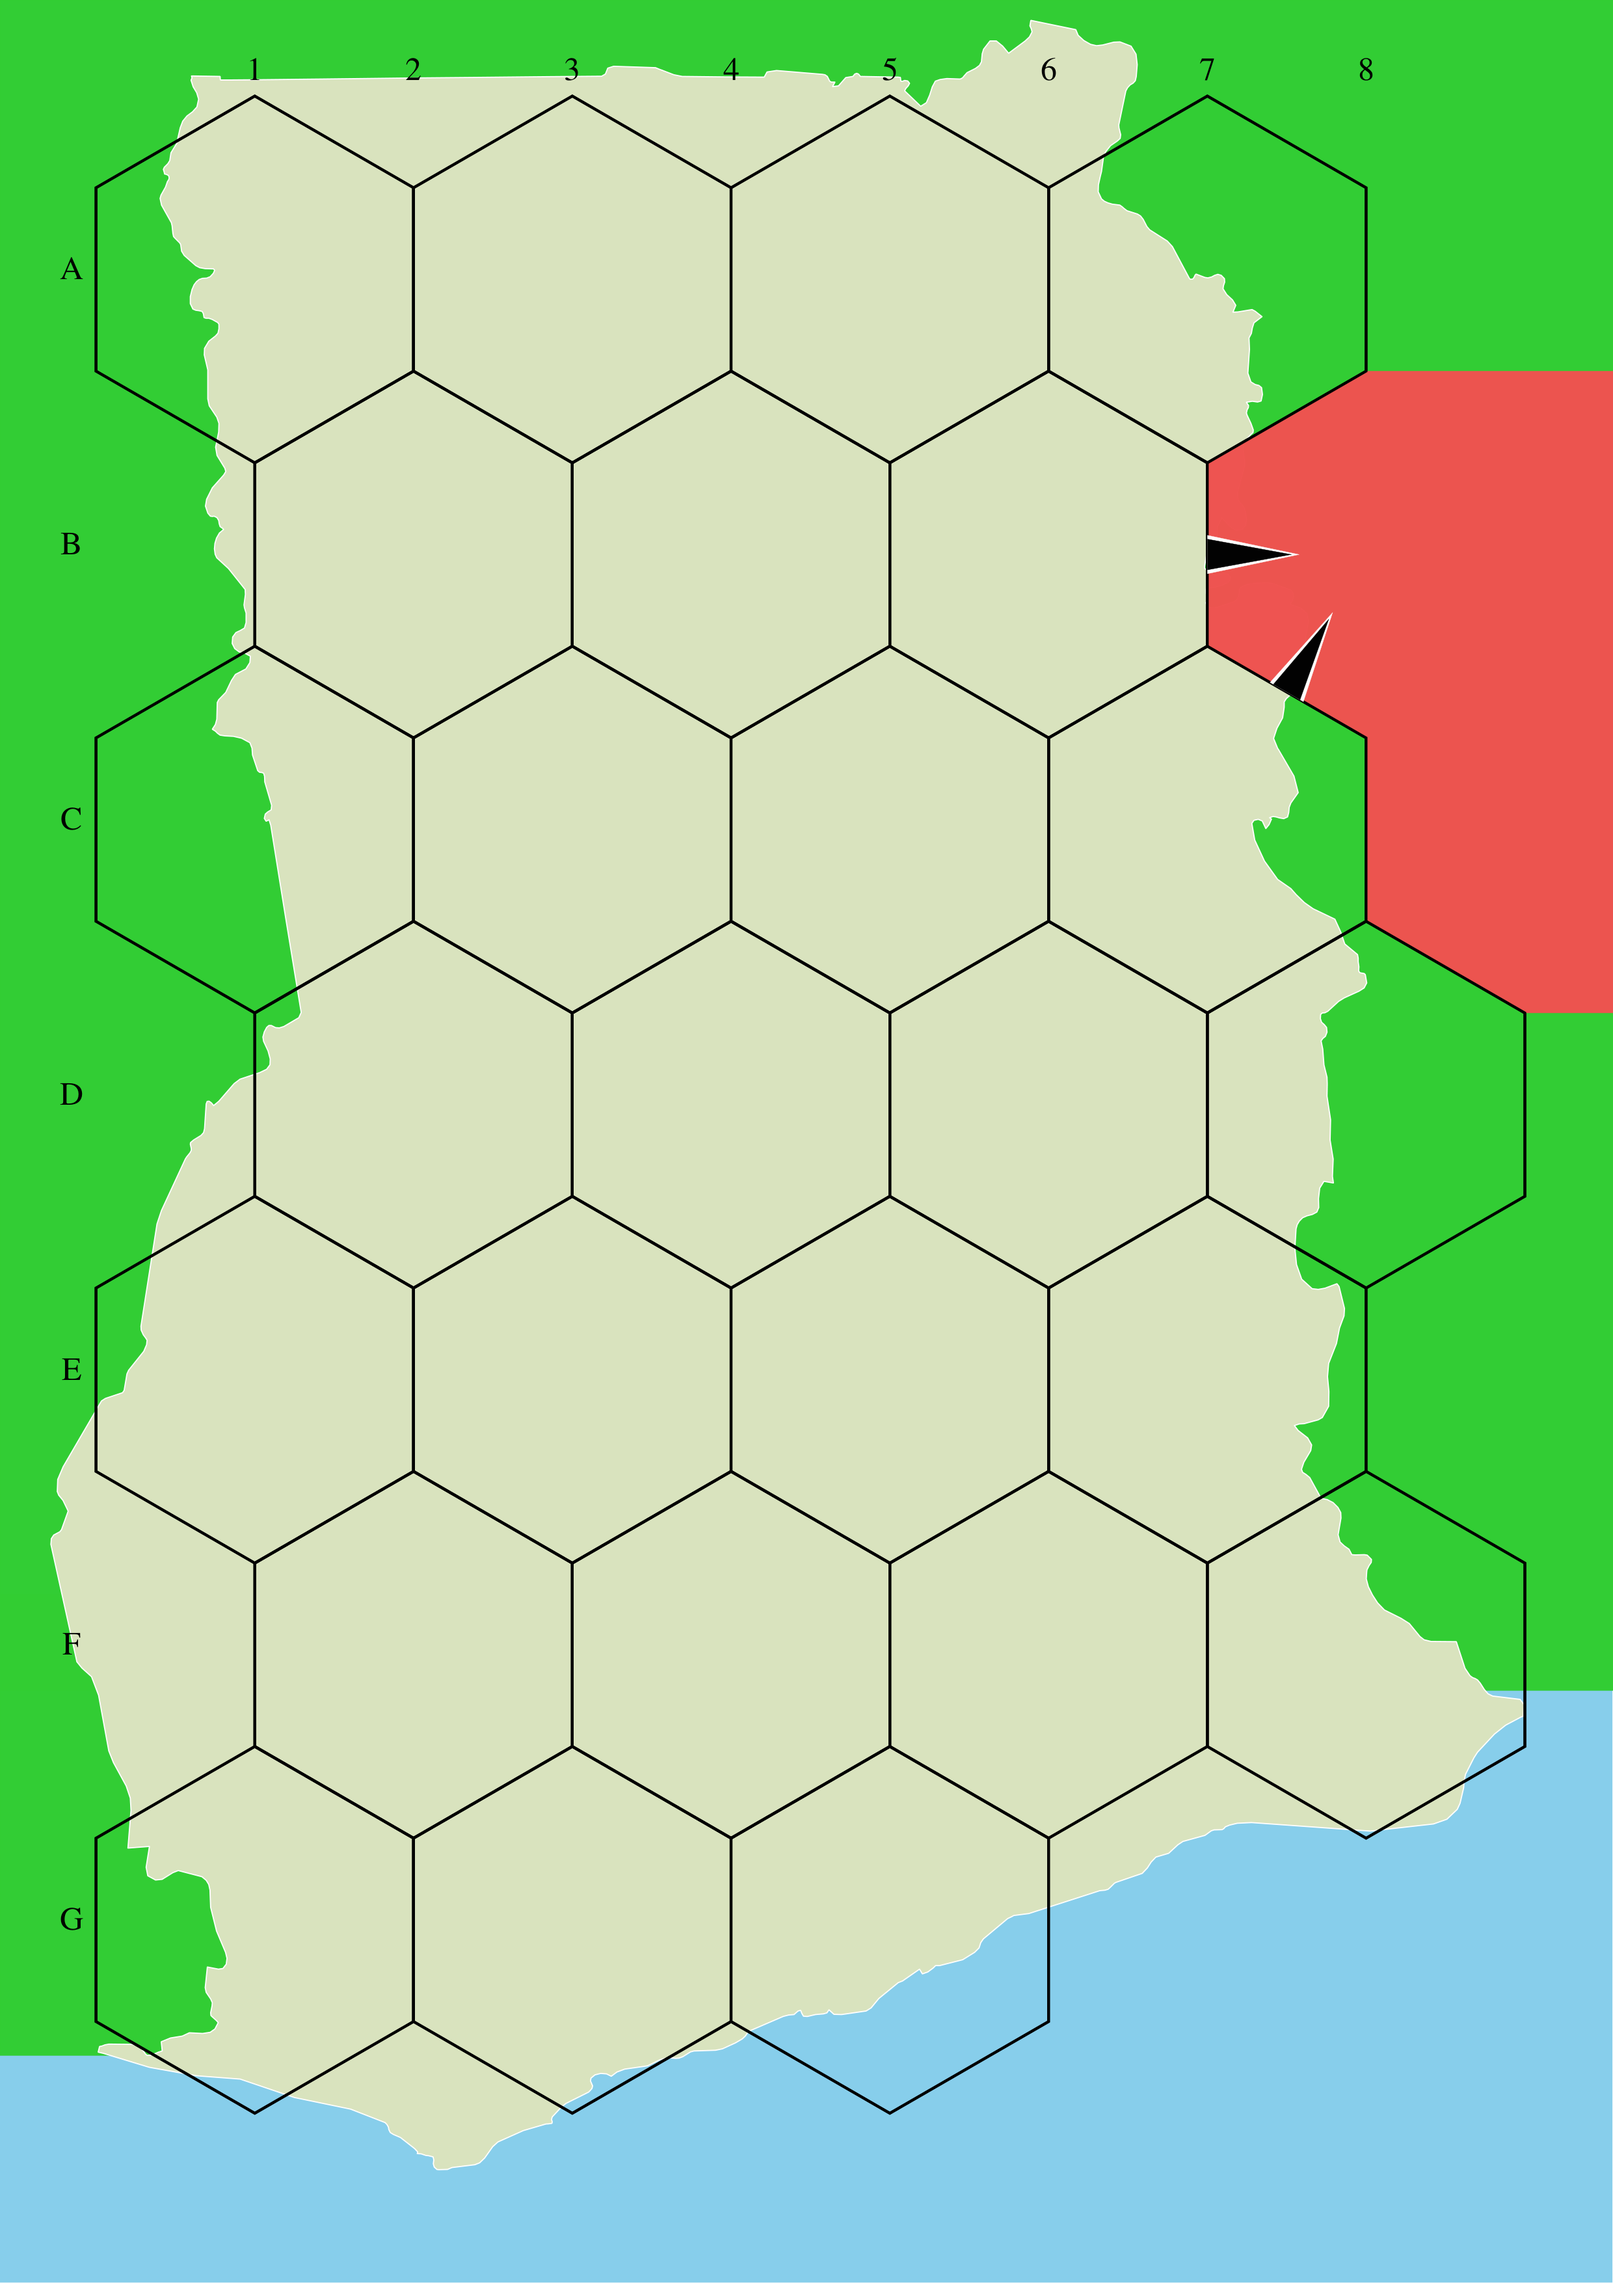
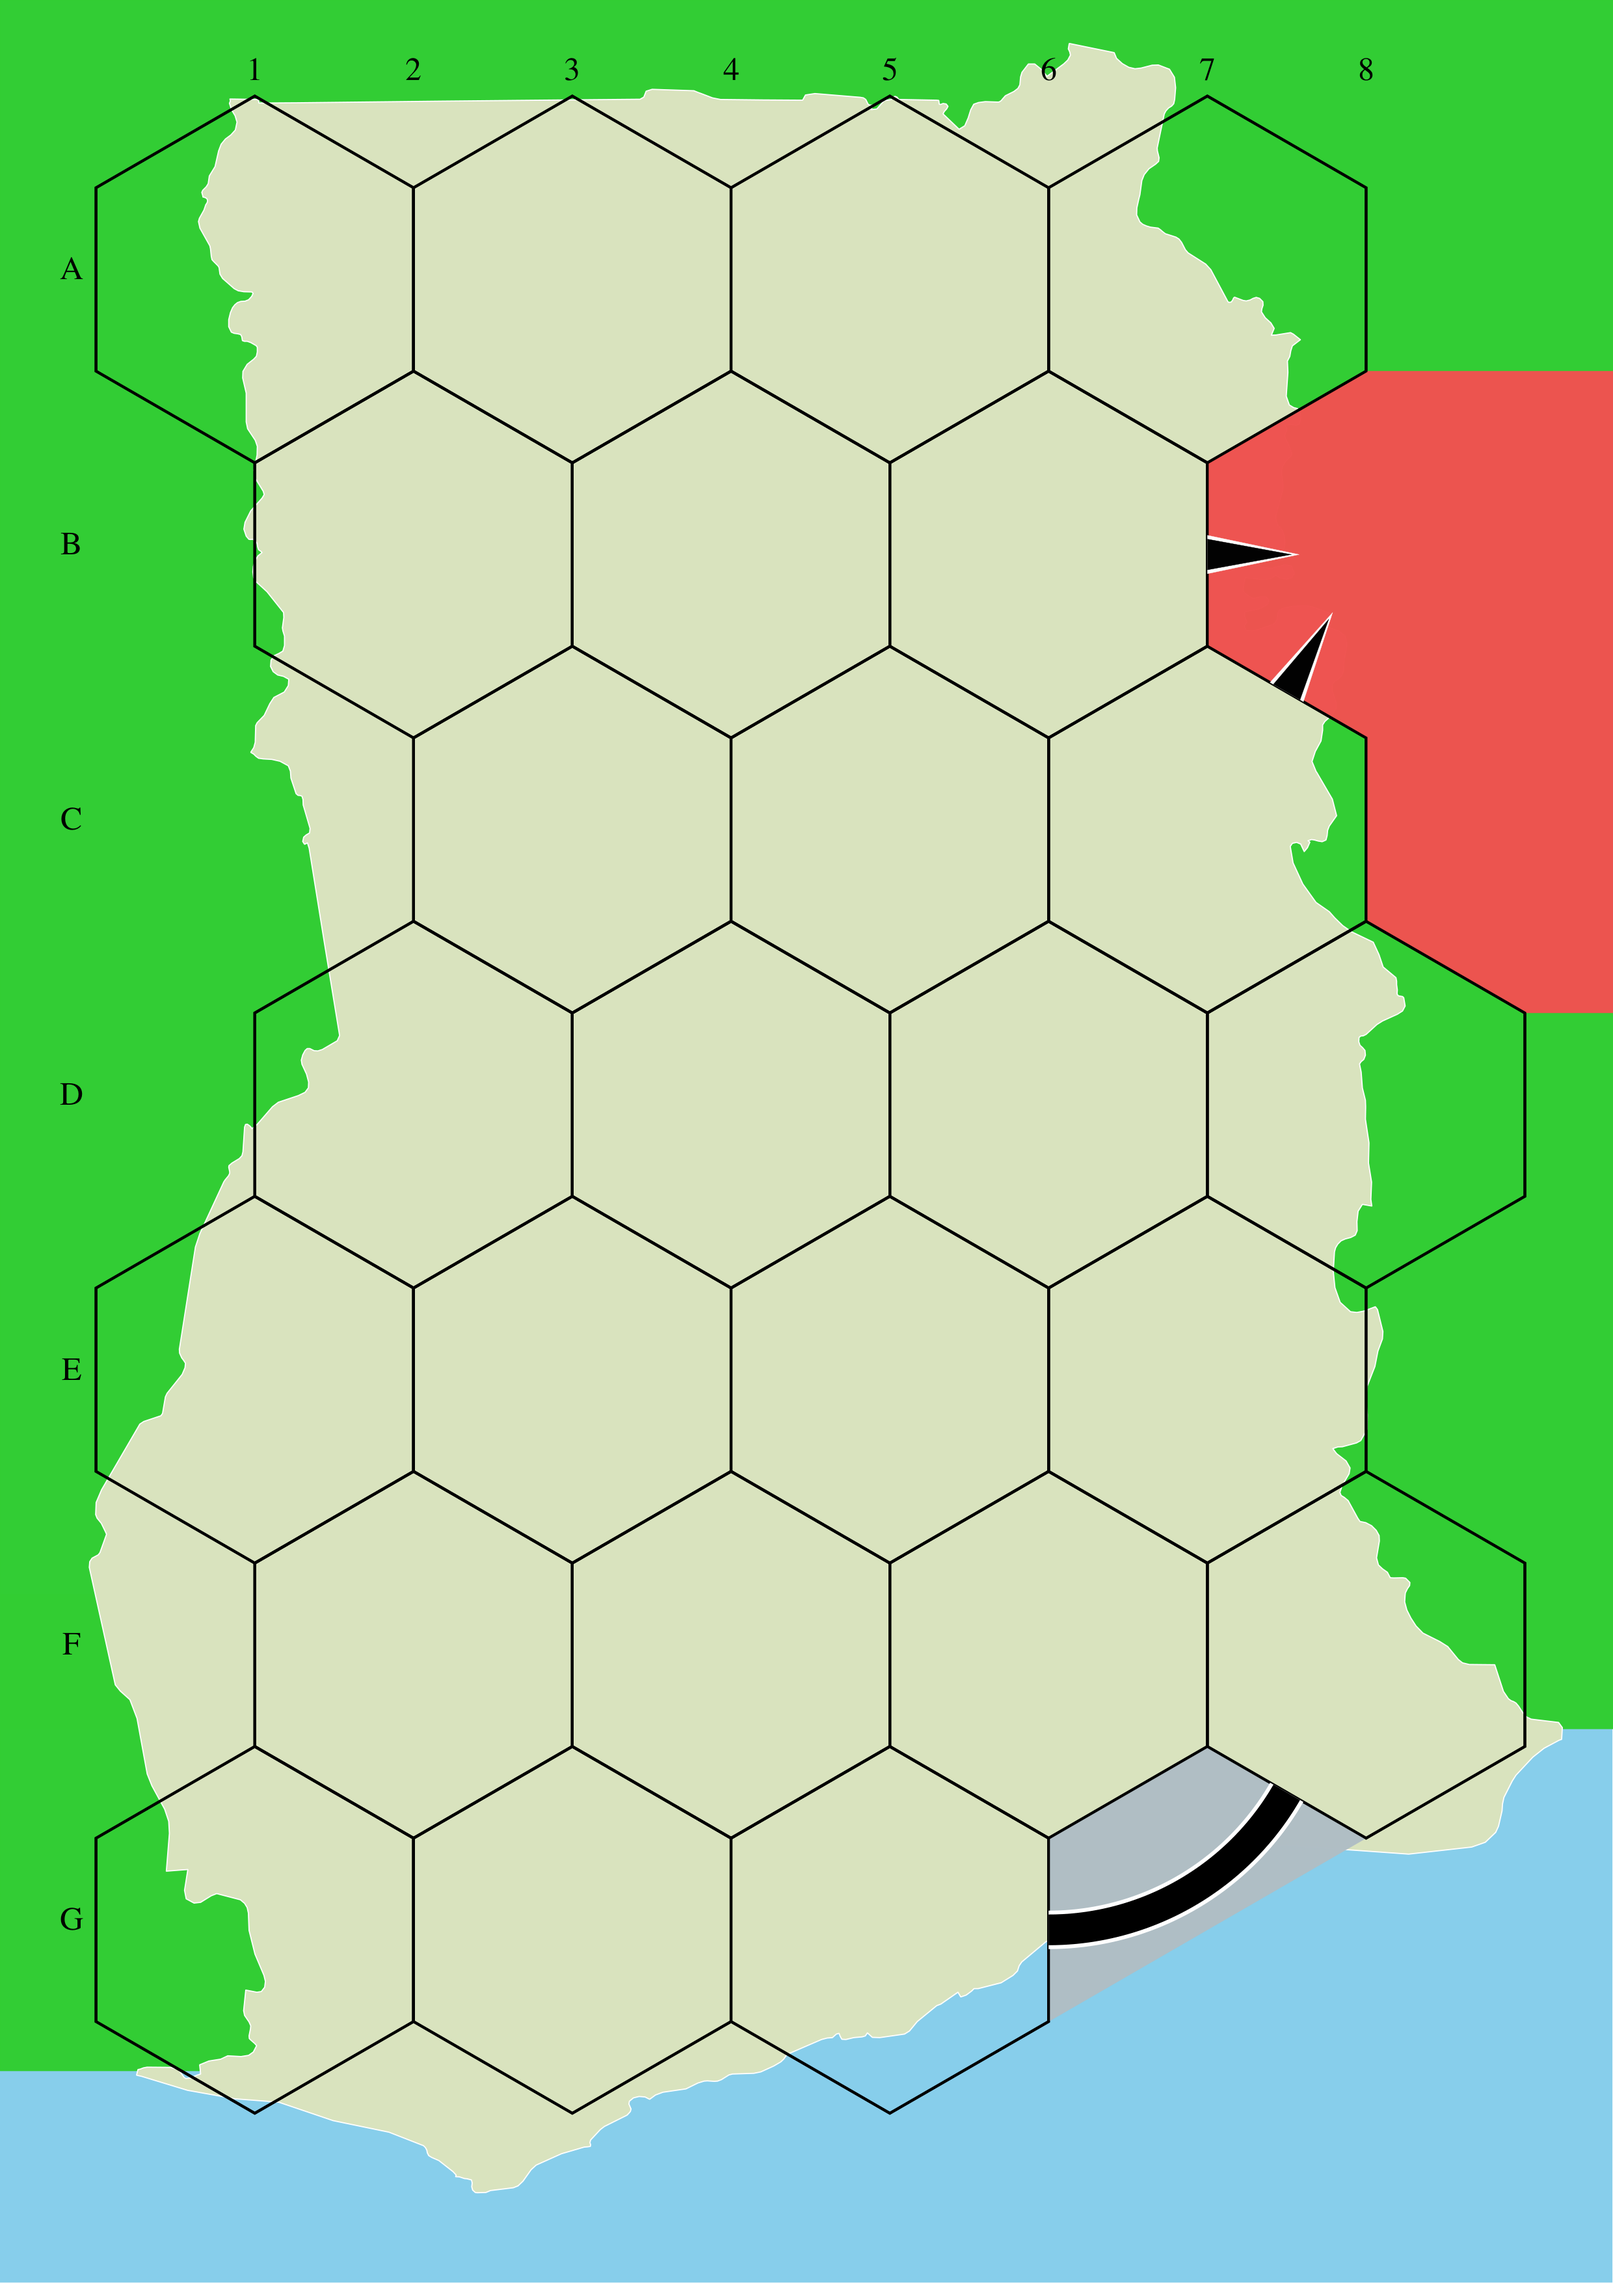
Swop-out swamp symbol. Expand map example (half-hexagon).

diff --git a/protograf/games/xx18_game.py b/protograf/games/xx18_game.py
@@ -27,7 +27,7 @@ The 18xx map "blueprint" feature covers depiction of:
   (two sizes), hills, and rivers
 * symbols for special features such as: coal, desert, factory, fish,
   flag, forest, hills, lock, mine, noentry, oil, pennant, port,
-  swamp, train, tree, tunnel
+  swamp, swamps, train, tree, tunnel
 * a river; as "wavy line"; running through a hex
 * a custom shape in a hex
 * a single piece of text
@@ -224,6 +224,7 @@ XX18_SYMBOL_SET = [
     "port",
     "river",
     "swamp",
+    "swamps",
     "train",
     "tree",
     "tunnel",
@@ -1392,8 +1393,9 @@ class XX18GameObject(CoreGameObject):
                         cxy=geo.centre,
                         height=self.hex_height,
                         fill=None,
-                        stroke=self.xxs["XX18_TEXT_STROKE"],
+                        stroke="white",
                         stroke_width=0.1,
+                        stroke_transparency=100,
                         orientation=self.orientation,
                         paths_stroke=self.xxs["XX18_TRACK_OUTER_FILL"],
                         paths_stroke_width=self.xxs["XX18_TRACK_OUTER_WIDTH"]
@@ -1431,8 +1433,9 @@ class XX18GameObject(CoreGameObject):
                         cxy=geo.centre,
                         height=self.hex_height,
                         fill=None,
-                        stroke="black",
+                        stroke="white",
                         stroke_width=0.1,
+                        stroke_transparency=100,
                         orientation=self.orientation,
                         paths_stroke="black",
                         paths_stroke_width=self.xxs["XX18_TRACK_INNER_WIDTH"]
@@ -1603,17 +1606,6 @@ class XX18GameObject(CoreGameObject):
                 wave_height=0.15,
             )
             start_point = current_point
-            # GridLine(
-            #     self.board_layout,
-            #     start=_loc,
-            #     point=point,
-            #     edges=edges,
-            #     stroke=river_stroke,
-            #     stroke_width=_river_width,
-            #     stroke_ends="rounded",
-            #     wave_style="wave",
-            #     wave_height=0.15,
-            # )
 
     def town(
         self,
@@ -2615,6 +2607,8 @@ class XX18GameObject(CoreGameObject):
                 _file = files("protograf").joinpath(f"{XX18_RESOURCES}/river.svg")
             case "swamp":
                 _file = files("protograf").joinpath(f"{XX18_RESOURCES}/swamp.svg")
+            case "swamps":
+                _file = files("protograf").joinpath(f"{XX18_RESOURCES}/swamps.svg")
             case "factory":
                 _file = files("protograf").joinpath(f"{XX18_RESOURCES}/factory.svg")
             case "fish":

diff --git a/examples/objects/xx18_map.py b/examples/objects/xx18_map.py
@@ -18,22 +18,22 @@ Create(
 
 Rectangle(
     x=-1.25, y=-1.25,
-    height=22, width=21,
+    height=22.5, width=21,
     fill_stroke="limegreen")
 Rectangle(
     x=-1.25, y=19.5,
-    height=6, width=4,
+    height=6.2, width=4,
     fill_stroke="limegreen")
 
 Image(
     "images/gh.svg",
     height=30, width=20,
-    y=-2, x=-1)
+    y=-1.7, x=-0.5)
 
 map_pattern ="""
 O O O O
  O O O .
-O O O O
+. O O O
  O O O O
 O O O O
  O O O O
@@ -60,6 +60,15 @@ Polyshape(
       (21, xgh.A7.se.y)
     ]
 )
+Polyshape(
+    fill_stroke="xgray",
+    points=[
+      xgh.G7.n,
+      xgh.G7.nw,
+      xgh.G7.sw,
+      xgh.G7.ne
+    ]
+)
 
 xgf = XX18Game(
     rows=7,
@@ -68,7 +77,8 @@ xgf = XX18Game(
     fill=None,
     pattern=map_pattern,
     features=[
-        ('B8', 'spike', 'w sw', "medium",),
+        ('B8', 'spike', 'w sw', 'medium',),
+        ('G7', 'track', 'w,ne', ),
     ]
     )
 XX18State(board=xgf)

diff --git a/protograf/protos/proto_commands.py b/protograf/protos/proto_commands.py
@@ -319,6 +319,14 @@ def Create(**kwargs):
     if kwargs.get("paper_width") or kwargs.get("paper_height"):
         _page_width = tools.as_float(kwargs.get("paper_width", 0), "paper_width")
         _page_height = tools.as_float(kwargs.get("paper_height", 0), "paper_height")
+        if _page_height <= 0 and _page_width <= 0:
+            feedback(
+                "Cannot set both paper_width and paper_height less than or equal to zero.",
+                True,
+                True,
+            )
+        _page_width = _page_width if _page_width > 0 else _page_height
+        _page_height = _page_height if _page_height > 0 else _page_width
         _page_width_pt = (
             _page_width * globals.units if _page_width > 0 else globals.paper[0]
         )

diff --git a/docs/source/objects/xx18.rst b/docs/source/objects/xx18.rst
@@ -97,7 +97,7 @@ The ``XX18Game()`` command can depict:
   (two sizes), hills, and rivers
 * symbols for special features such as: coal, desert, factory, fish,
   flag, forest, hills, lock, mine, noentry, oil, pennant, port,
-  swamp, train, tree, tunnel
+  swamp, swamps, train, tree, tunnel
 * a river; as "wavy line"; running through a hexagon
 * a custom shape in a hexagon
 * a single piece of text
@@ -1261,22 +1261,22 @@ exceptions.  For these cases, you need to fall back to using
 
         Rectangle(
             x=-1.25, y=-1.25,
-            height=22, width=21,
+            height=22.5, width=21,
             fill_stroke="limegreen")
         Rectangle(
             x=-1.25, y=19.5,
-            height=6, width=4,
+            height=6.2, width=4,
             fill_stroke="limegreen")
 
         Image(
             "images/gh.svg",
             height=30, width=20,
-            y=-2, x=-1)
+            y=-1.7, x=-0.5)
 
         map_pattern ="""
         O O O O
          O O O .
-        O O O O
+        . O O O
          O O O O
         O O O O
          O O O O
@@ -1287,8 +1287,7 @@ exceptions.  For these cases, you need to fall back to using
             rows=7,
             cols=4,
             fill=None,
-            pattern=map_pattern
-        )
+            pattern=map_pattern)
         XX18State(board=xgh)
 
         Polyshape(
@@ -1304,6 +1303,15 @@ exceptions.  For these cases, you need to fall back to using
               (21, xgh.A7.se.y)
             ]
         )
+        Polyshape(
+            fill_stroke="xgray",
+            points=[
+              xgh.G7.n,
+              xgh.G7.nw,
+              xgh.G7.sw,
+              xgh.G7.ne
+            ]
+        )
 
         xgf = XX18Game(
             rows=7,
@@ -1312,31 +1320,34 @@ exceptions.  For these cases, you need to fall back to using
             fill=None,
             pattern=map_pattern,
             features=[
-                ('B8', 'spike', 'w sw', "medium",),
+                ('B8', 'spike', 'w sw', 'medium'),
+                ('G7', 'track', 'w,ne'),
             ]
-        )
+            )
+
         XX18State(board=xgf)
 
       This example shows the use of other shapes provided by **protograf**,
       together with the use of layering, to supplement the ``XX18Game()``
-      command for creation of map-enhanced board.
+      command for the creation of a map-enhanced board.
 
-      There are effectively six main layers in the board creation process:
+      There are effectively six main layers in this board creation process:
 
       1. The primary blue color is set when the page is created, using *fill*
-      2. The green land area is then drawn in the form of Rectangles.
+      2. The green land areas are then drawn in the form of Rectangles.
       3. The map itself is loaded as an Image.
-      4. The hexagonal grid is drawn for the first time; ``xgh``
-      5. The red offboard area is drawn as a filled Polyshape
-      6. The hexagonal grid is drawn for the second time ; ``xgf`` and
+      4. The hexagonal grid is drawn for the first time, named ``xgh``.
+      5. The red offboard area is drawn as a filled Polyshape; and the grey
+         half-hexagon is drawn as a filled Polyshape.
+      6. The hexagonal grid is drawn for the second time as ``xgf`` and
          its features are created.
 
-      The creation of the map grid happens twice in order to allow the red,
-      offboard Polyshape to make use of the grid coordinates for its drawing
+      The creation of the map grid happens twice in order to allow the two
+      Polyshapes to make use of the grid coordinates for their drawing
       routine. The second time the map grid is drawn, it then overlays that
       same area, and adds the labels and features.
 
-      It can be seen from the :ref:`Polyshape <polyshape-command>` example that
+      It can be seen from the :ref:`Polyshapes <polyshape-command>` that
       every hexagon in the map can be referenced by the ``MAPNAME.ZZ`` method;
       where ``MAPNAME`` is the name assigned to the map grid (in the above
       example it is ``xgh``), followed by a dot, followed by a reference to a
@@ -1384,7 +1395,7 @@ XX18 Style Settings
 `↑ <xx18Index_>`_
 
 The following are the "internal" settings for styles and sizes used by
-the ``XX18State()`` command, that be changed in a JSON file; see
+the ``XX18Game()`` command, that be changed in a JSON file; see
 `XX18Game JSON Styles`_.
 
 * ``"XX18_HEX_SIDE"`` - default is ``2.3864`` cm; length of standard hexagon edge
